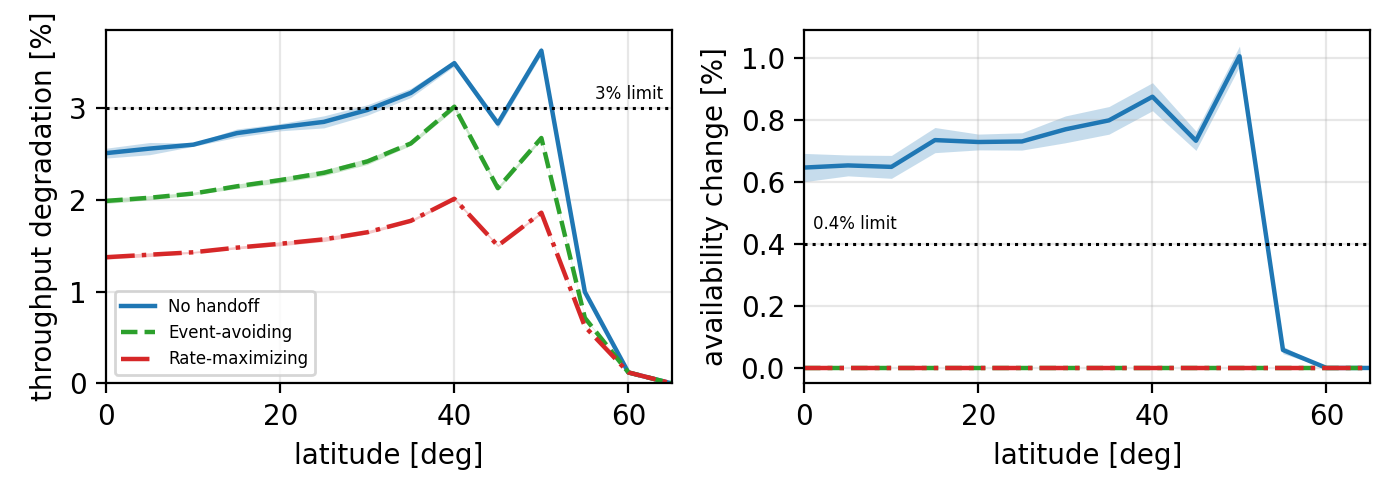
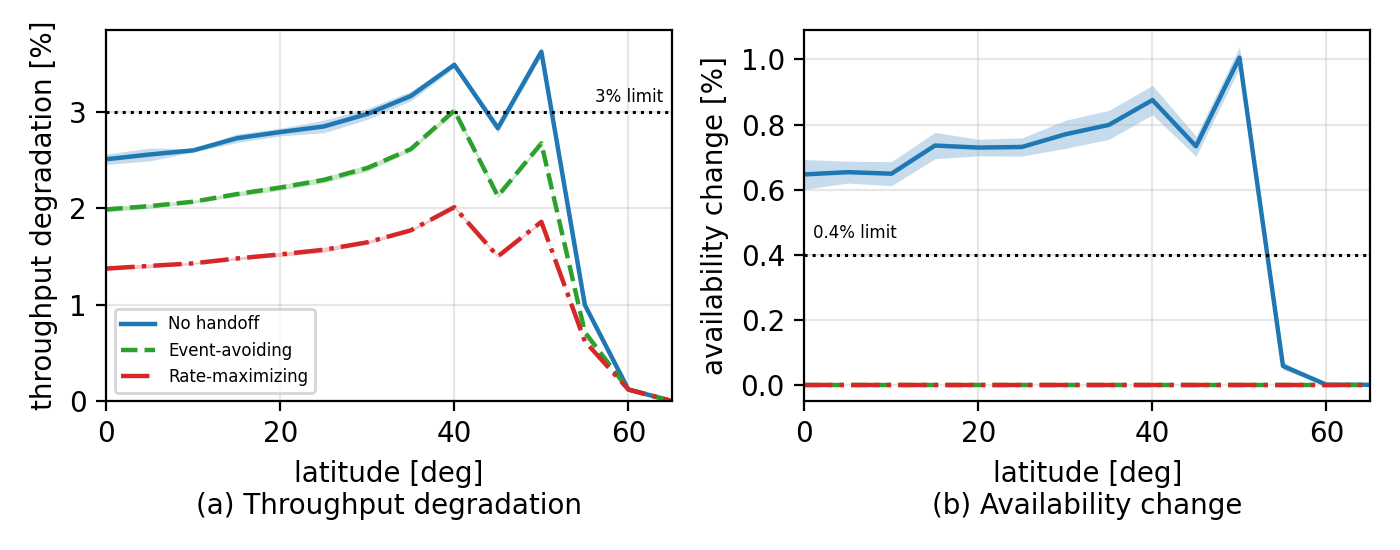
Fig. 2: panel labels (a) Throughput degradation / (b) Availability change below the x labels, figure 2.75 in tall; no data change (paper still 6 pages)

Changed region(s): [[0.0, 0.03, 0.5836, 0.96], [0.4914, 0.03, 0.9829, 0.96]]

diff --git a/figures/make_figures.py b/figures/make_figures.py
@@ -615,7 +615,8 @@ def fig_b2_limits(e5: Path) -> Path | None:
         hp = _sel(h[h["policy"] == pol])
         if not hp.empty:
             curves.append((hp, "degradation_div", "unavail_incr_div_frac", label, ls, color))
-    fig, (ax1, ax2) = plt.subplots(1, 2, figsize=(7.0, 2.5), sharex=True)
+    # 2.75 in tall: room for the two-line x labels without shrinking the panels.
+    fig, (ax1, ax2) = plt.subplots(1, 2, figsize=(7.0, 2.75), sharex=True)
 
     for df, cd, cu, label, ls, color in curves:
         lat = df["latitude_deg"]
@@ -627,7 +628,8 @@ def fig_b2_limits(e5: Path) -> Path | None:
     ax1.axhline(3.0, color="k", ls=":", lw=1.1)
     # Right end of the limit line (curves are low there); legend lower left, below them.
     ax1.text(64, 3.10, "3% limit", fontsize=6, ha="right")
-    ax1.set_xlabel("latitude [deg]")
+    # Panel labels as a second x-label line: centred, same size as the axis labels.
+    ax1.set_xlabel("latitude [deg]\n(a) Throughput degradation")
     ax1.set_ylabel("throughput degradation [%]")
     ax1.set_xlim(0, 65)
     ax1.set_ylim(bottom=0)
@@ -635,7 +637,7 @@ def fig_b2_limits(e5: Path) -> Path | None:
     ax1.legend(fontsize=6, loc="lower left")
     ax2.axhline(0.4, color="k", ls=":", lw=1.1)
     ax2.text(1, 0.45, "0.4% limit", fontsize=6)
-    ax2.set_xlabel("latitude [deg]")
+    ax2.set_xlabel("latitude [deg]\n(b) Availability change")
     ax2.set_ylabel("availability change [%]")
     ax2.set_ylim(bottom=-0.05)
     ax2.grid(alpha=0.3)
